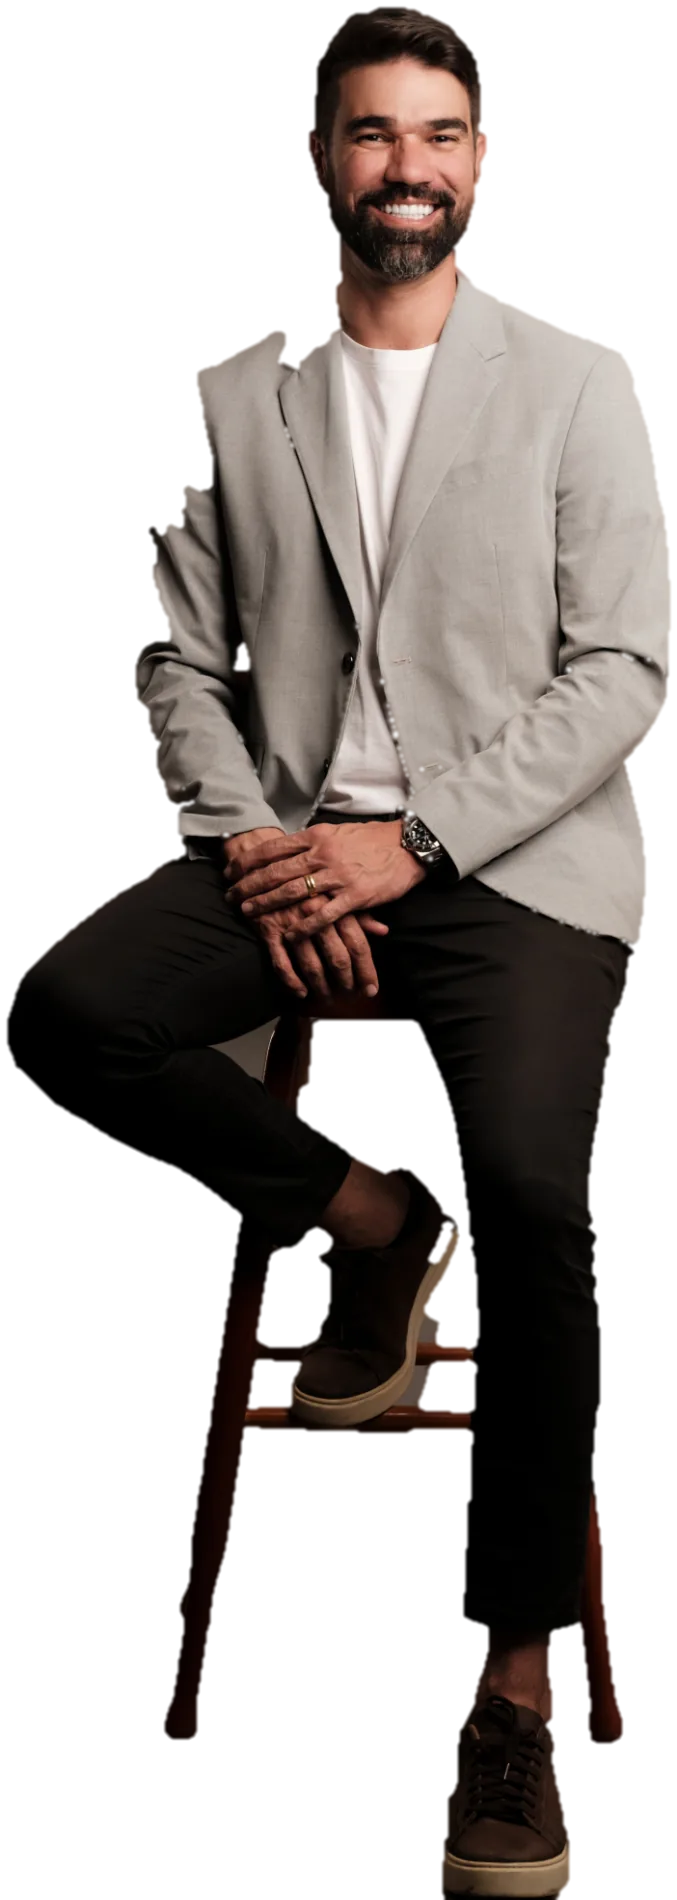
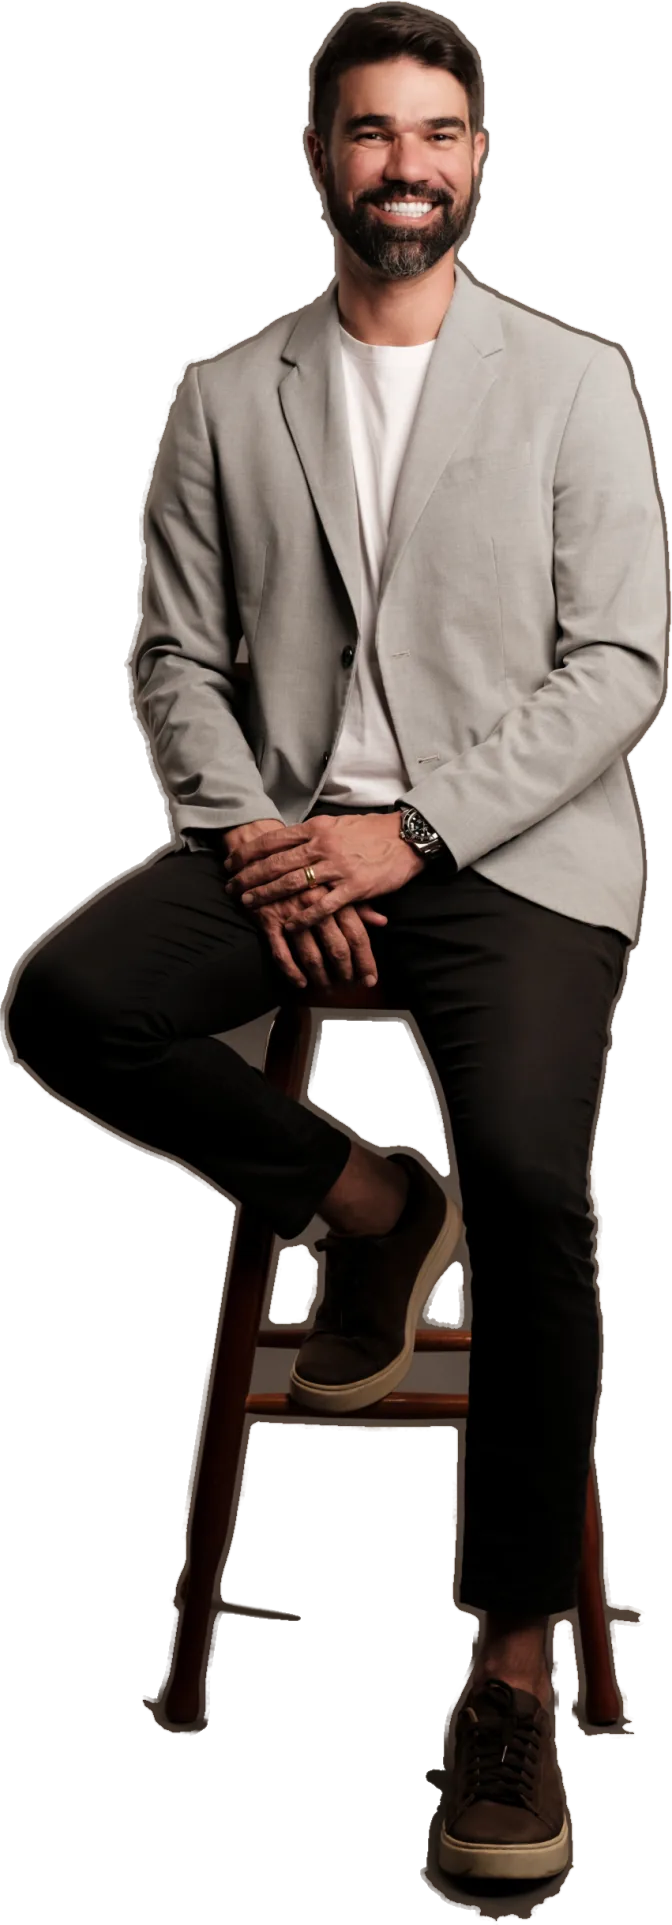
Um CTA a mais, quatro blocos de copy e o recorte da foto do banco refeito
O time leu a pagina como "direta demais": ela e a transcricao literal do
midia kit, que apresenta e nunca convence. Entraram quatro blocos que o kit
nao tem — prova social na entrada, a pergunta que a p3 responde, as ocasioes
em que a palestra costuma caber, e os tres passos ate o palco — mais dois
destaques na bio (Banco do Brasil, Paulo Vieira) e uma linha de moldura nos
18 logos. Nenhum numero ou promessa novos: tudo repete dado do kit, e pergunta
retorica, ou descreve processo.

Botoes: foram cinco, sobrou um. O pedido veio em duas partes — primeiro
"faltam botoes durante o site", depois "ficou muito botao, tem que ser lugar
estrategico". Ficou o unico vao real da pagina: da p2 ate o Everest nao havia
nada clicavel, e o fim dos cinco verbos e onde a promessa acabou de ser feita.
A pagina tem 6 pontos de conversao, com 14 links de WhatsApp em 13 mensagens
diferentes.

Foto do banco: a mascara antiga rasgava o ombro direito dele e soltava o braco
do corpo. Ela saia de diferenca de COR, e ali o blazer cinza-claro cai em cima
do foco de luz do fundo — as duas cores quase se encostam. Refeita por TEXTURA:
o fundo de estudio e liso (desvio padrao local 0,6) e a figura nao (6 a 8), e o
contorno de textura sai fechado em volta do corpo inteiro. O que sobrava de
fundo por dentro — os vaos entre as pernas e o banco, e a sombra do chao — sai
depois por cromaticidade. A funcao banco() do recortar_fotos.py foi trocada
junto, senao o recorte defeituoso volta na proxima geracao.
[…]

Changed region(s): [[0.0, 0.0, 1.0, 1.0], [0.4062, 0.8384, 0.4375, 0.8695]]

diff --git a/index.html b/index.html
@@ -576,6 +576,78 @@ body.is-locked{overflow:hidden}
   .qr figcaption{max-width:12rem;font-size:.92rem;font-weight:400;line-height:1.35}
 }
 
+
+/* ============================================================
+   GATILHOS DE COPY — blocos que NAO vem do midia kit
+   Acrescentados em 22/09/2026: o time leu a pagina como "direta demais".
+   Regra: nenhum numero ou promessa nova. Tudo aqui ou repete dado do kit,
+   ou e pergunta retorica, ou descreve processo. Cor, fonte e forma saem
+   todas do :root e da luz da secao vizinha.
+   ============================================================ */
+
+/* --- prova social na entrada: os tres numeros da p2, antes da rolagem --- */
+.prova{
+  position:relative;
+  padding:clamp(2.2rem,4.5vw,3.4rem) 0;
+  /* emenda o preto-oliva da capa no grafite da p2 */
+  background:linear-gradient(180deg,#101104 0%,#1D1C19 100%);
+  border-top:1px solid rgba(235,203,108,.16);
+}
+.prova__grid{display:grid;grid-template-columns:repeat(3,1fr);gap:clamp(.7rem,2.4vw,2.4rem);text-align:center}
+.prova__n{display:block;font-weight:800;line-height:1;font-size:clamp(1.55rem,5.2vw,3.3rem);letter-spacing:-.02em;color:var(--gold)}
+.prova__l{display:block;margin-top:.5em;font-weight:500;line-height:1.25;font-size:clamp(.78rem,1.45vw,1.05rem);text-transform:uppercase;letter-spacing:.05em}
+.prova__pe{
+  margin-top:clamp(1.4rem,2.6vw,2.1rem);
+  display:flex;flex-wrap:wrap;justify-content:center;align-items:center;gap:0 1rem;
+  text-align:center;font-size:clamp(.96rem,1.55vw,1.12rem);line-height:1.45;
+}
+
+/* --- a pergunta que a secao seguinte responde --- */
+.dor{padding:var(--band) 0;background:linear-gradient(180deg,#1F1E1C 0%,#0E0A07 62%,var(--palco) 100%)}
+.dor__ttl{max-width:38rem;font-weight:300;font-size:clamp(1.5rem,3.3vw,2.55rem);line-height:1.22}
+.dor__ttl b{display:block;margin-top:.15em;font-weight:800;color:var(--gold)}
+.dor__lista{margin-top:clamp(1.8rem,3.4vw,2.8rem);display:grid;gap:clamp(.9rem,1.8vw,1.35rem);max-width:47rem}
+.dor__lista li{position:relative;padding-left:2em;font-size:clamp(1.02rem,1.75vw,1.3rem);line-height:1.4}
+.dor__lista li::before{content:"";position:absolute;left:0;top:.62em;width:1.2em;height:2px;background:var(--gold)}
+.dor__pe{margin-top:clamp(1.6rem,3vw,2.4rem);font-weight:700;color:var(--gold);font-size:clamp(1.05rem,1.9vw,1.4rem);line-height:1.3}
+
+/* --- ocasioes: a propria lista da capa do kit, virada em reconhecimento --- */
+.ocas{margin-top:clamp(2.2rem,4vw,3.2rem);padding-right:var(--gut)}
+.ocas__ttl{font-weight:800;text-transform:uppercase;letter-spacing:.06em;color:var(--gold);font-size:clamp(.92rem,1.5vw,1.08rem)}
+.ocas__ul{margin-top:.9rem;display:flex;flex-wrap:wrap;gap:.55rem}
+.ocas__ul li{
+  padding:.55em 1.05em;border:1px solid rgba(235,203,108,.5);border-radius:100px;
+  font-size:clamp(.86rem,1.4vw,1.02rem);line-height:1.2;
+}
+
+/* --- moldura dos 18 logos: o que eles provam --- */
+.clientes__sub{margin:.8rem auto 0;max-width:46rem;text-align:center;font-size:clamp(1rem,1.65vw,1.2rem);line-height:1.45}
+
+/* --- os tres passos ate o palco: tira o atrito do CTA final --- */
+.passos{padding:var(--band) 0;background:linear-gradient(180deg,#2B2721 0%,#14201F 62%,var(--petroleo) 100%)}
+.passos__ttl{text-align:center;font-weight:300;font-size:clamp(1.65rem,4vw,2.9rem);line-height:1.18}
+.passos__ttl b{font-weight:800;color:var(--gold)}
+.passos__grid{margin-top:clamp(2rem,4vw,3.2rem);list-style:none;display:grid;gap:clamp(1rem,2.2vw,1.8rem)}
+.passos__grid li{
+  padding:clamp(1.3rem,2.4vw,1.9rem) clamp(1.4rem,2.6vw,2.1rem);
+  border:1px solid rgba(235,203,108,.28);border-radius:clamp(18px,2.4vw,26px);background:rgba(0,0,0,.24);
+}
+.passos__n{display:block;font-family:var(--cond);font-weight:400;line-height:1;color:var(--gold);font-size:clamp(1.8rem,3.2vw,2.5rem)}
+.passos__t{display:block;margin-top:.45em;font-weight:800;text-transform:uppercase;letter-spacing:.04em;font-size:clamp(1rem,1.6vw,1.16rem)}
+.passos__d{margin-top:.55em;font-size:clamp(.97rem,1.55vw,1.1rem);line-height:1.45}
+@media (min-width:760px){ .passos__grid{grid-template-columns:repeat(3,1fr)} }
+
+/* --- microcopy que tira o medo de chamar --- */
+.leve__nota{margin-top:1.2rem;max-width:31rem;font-size:clamp(.95rem,1.5vw,1.08rem);line-height:1.45;color:rgba(255,255,255,.88)}
+
+
+/* --- um CTA a mais, no fim da p3 ---
+   22/09/2026: cinco botoes novos viraram um so. O pedido veio em duas partes — primeiro
+   "faltam botoes durante o site", depois "ficou muito botao, tem que ser lugar estrategico".
+   Ficou o unico vao real que a pagina tinha: da p2 ate o Everest nao havia nada clicavel,
+   e o fim dos cinco verbos e onde a promessa da palestra acabou de ser feita. */
+.cta-sec{margin-top:clamp(2.2rem,4vw,3.2rem)}
+
 /* ============================================================
    RODAPÉ + WHATSAPP FLUTUANTE
    ============================================================ */
@@ -683,6 +755,21 @@ body.is-locked{overflow:hidden}
   </div>
 </section>
 
+<!-- ============ GATILHO · PROVA SOCIAL NA ENTRADA (não vem do kit) ============ -->
+<section class="prova" aria-label="Experiência em números">
+  <div class="wrap">
+    <ul class="prova__grid reveal">
+      <li><strong class="prova__n">+3.000</strong><span class="prova__l">palestras</span></li>
+      <li><strong class="prova__n">+400 mil</strong><span class="prova__l">pessoas treinadas</span></li>
+      <li><strong class="prova__n">+3.600h</strong><span class="prova__l">de mentoria individual</span></li>
+    </ul>
+    <p class="prova__pe reveal" style="--d:.1s">
+      <span>Entre as empresas atendidas: indústria, agronegócio, varejo, serviços e comunicação.</span>
+      <a class="lnk" href="#resultados">Ver quais <svg viewBox="0 0 24 24" aria-hidden="true"><path d="M12 5v14M6 13l6 6 6-6" stroke-linecap="round" stroke-linejoin="round"/></svg></a>
+    </p>
+  </div>
+</section>
+
 <!-- ============ 2 · QUEM É (pág. 2) ============ -->
 <section class="quem" id="quem-e" aria-labelledby="quem-h">
   <div class="quem__foto">
@@ -695,8 +782,8 @@ body.is-locked{overflow:hidden}
     <p class="quem__abre reveal">Sou <strong>empresário, palestrante</strong> e <strong>estrategista.</strong></p>
 
     <div class="quem__bio just reveal">
-      <p>Gustavo Sampaio construiu sua base de liderança e alta performance ao longo de seis anos no Banco do Brasil, após ser aprovado em concurso público.</p>
-      <p>Em 2018, expandiu sua atuação nos negócios ao se tornar sócio de Paulo Vieira na franquia Febracis Goiânia, onde atuou como diretor até 2026.</p>
+      <p>Gustavo Sampaio construiu sua base de liderança e alta performance ao longo de <strong>seis anos no Banco do Brasil</strong>, após ser aprovado em concurso público.</p>
+      <p>Em 2018, expandiu sua atuação nos negócios ao se tornar <strong>sócio de Paulo Vieira na franquia Febracis Goiânia</strong>, onde atuou como diretor até 2026.</p>
       <p>Atualmente lidera pessoas, projetos e processos voltados ao desenvolvimento pessoal e corporativo.</p>
       <p>Essa busca por superação também se reflete em sua paixão por desafios extremos de alta performance e inteligência emocional, como travessias no Deserto do Saara e Atacama, nos Lençóis Maranhenses e a subida ao acampamento base do Everest.</p>
       <p>Sua trajetória prática moldou uma convicção central: nenhuma empresa cresce de forma consistente sem desenvolver as pessoas que sustentam seus resultados.</p>
@@ -709,6 +796,20 @@ body.is-locked{overflow:hidden}
       <li><strong>+ 400 mil</strong> pessoas treinadas</li>
       <li><strong>+ 3.600</strong> horas de mentoria individual</li>
     </ul>
+
+  </div>
+</section>
+
+<!-- ============ GATILHO · A PERGUNTA QUE A PÁGINA 3 RESPONDE (não vem do kit) ============ -->
+<section class="dor" aria-label="O que costuma sobrar depois do evento">
+  <div class="wrap">
+    <h2 class="dor__ttl reveal">Toda convenção termina com a plateia de pé. <b>A pergunta é o que sobra na segunda-feira.</b></h2>
+    <ul class="dor__lista">
+      <li class="reveal">O time sabe o que precisa ser feito — e mesmo assim não faz.</li>
+      <li class="reveal" style="--d:.06s">A liderança decide no improviso e passa o ano apagando incêndio.</li>
+      <li class="reveal" style="--d:.12s">A mensagem do evento empolga na hora e some na primeira semana de rotina.</li>
+    </ul>
+    <p class="dor__pe reveal" style="--d:.18s">É exatamente nesse ponto que a palestra tem de agir.</p>
   </div>
 </section>
 
@@ -737,6 +838,8 @@ body.is-locked{overflow:hidden}
       <li class="reveal" style="--d:.18s"><strong><span class="gold">Fortalecer</span></strong><span>a comunicação e o trabalho em equipe.</span></li>
       <li class="reveal" style="--d:.24s"><strong><span class="gold">Transformar</span></strong><span>desafios em oportunidades de crescimento.</span></li>
     </ul>
+
+    <a class="btn btn--gold cta-sec reveal" href="https://wa.me/5562981084247?text=Ol%C3%A1%21%20Vim%20pela%20p%C3%A1gina%20de%20palestras.%20Quero%20essa%20experi%C3%AAncia%20para%20a%20minha%20equipe%20e%20gostaria%20de%20solicitar%20uma%20proposta." target="_blank" rel="noopener">Quero essa experiência no meu evento</a>
   </div>
 </section>
 
@@ -812,6 +915,19 @@ body.is-locked{overflow:hidden}
         <li class="reveal" style="--d:.12s">Treinamentos de 4h, 8h ou 16h</li>
         <li class="reveal" style="--d:.18s">Programas para empresas</li>
       </ul>
+
+      <!-- GATILHO · reconhecimento: a lista é a da capa do kit, virada em ocasião -->
+      <div class="ocas reveal">
+        <h4 class="ocas__ttl">Costuma funcionar bem em:</h4>
+        <ul class="ocas__ul">
+          <li>Convenções de vendas</li>
+          <li>Encontros de liderança</li>
+          <li>Eventos empresariais</li>
+          <li>Treinamentos de equipes</li>
+          <li>Encontros com clientes e parceiros</li>
+        </ul>
+      </div>
+
     </div>
   </div>
 </section>
@@ -865,7 +981,7 @@ body.is-locked{overflow:hidden}
     <div class="res__topo">
       <h2 class="res__ttl" id="res-h"><span class="res__big"><span class="sunset">Resultados</span></span><span class="res__sub">para a sua organização</span></h2>
 
-      <img class="res__foto" src="images/kit/banco.webp" width="677" height="1900" alt="Gustavo Sampaio sentado em um banco alto, de blazer cinza claro e camiseta branca, sorrindo" loading="lazy" decoding="async">
+      <img class="res__foto" src="images/kit/banco.webp" width="672" height="1925" alt="Gustavo Sampaio sentado em um banco alto, de blazer cinza claro e camiseta branca, sorrindo" loading="lazy" decoding="async">
 
       <div class="res__lista">
         <ul class="ganhos reveal">
@@ -889,6 +1005,8 @@ body.is-locked{overflow:hidden}
 
     <div class="clientes">
       <h3 class="clientes__ttl reveal">Algumas empresas atendidas</h3>
+      <!-- GATILHO · o que os 18 logos provam -->
+      <p class="clientes__sub reveal">Em todas, o mesmo ponto de partida: tema, recorte e formato ajustados ao público e ao objetivo daquele evento.</p>
       <div class="logos reveal">
         <ul>
           <li><img src="images/logos-kit/01-gav-resorts.png" width="194" height="140" alt="GAV Resorts" style="--w:47%" loading="lazy" decoding="async"></li>
@@ -915,6 +1033,30 @@ body.is-locked{overflow:hidden}
   </div>
 </section>
 
+<!-- ============ GATILHO · COMO SAI DO CONTATO PARA O PALCO (não vem do kit) ============ -->
+<section class="passos" aria-label="Como contratar">
+  <div class="wrap">
+    <h2 class="passos__ttl reveal">Do primeiro contato ao palco, <b>em três conversas.</b></h2>
+    <ol class="passos__grid">
+      <li class="reveal">
+        <span class="passos__n">01</span>
+        <span class="passos__t">Contato</span>
+        <p class="passos__d">Você chama no WhatsApp e conta o contexto: público, data, cidade e objetivo do evento.</p>
+      </li>
+      <li class="reveal" style="--d:.08s">
+        <span class="passos__n">02</span>
+        <span class="passos__t">Alinhamento</span>
+        <p class="passos__d">Definimos juntos o tema, o formato — presencial ou online — e a duração que faz sentido para esse público.</p>
+      </li>
+      <li class="reveal" style="--d:.16s">
+        <span class="passos__n">03</span>
+        <span class="passos__t">Confirmação</span>
+        <p class="passos__d">Fechados os detalhes, você recebe as orientações técnicas do que precisa estar pronto no local.</p>
+      </li>
+    </ol>
+  </div>
+</section>
+
 <!-- ============ 8 · LEVE GUSTAVO SAMPAIO PARA A SUA EMPRESA (pág. 8) ============ -->
 <section class="leve" id="contato" aria-labelledby="leve-h">
   <div class="leve__fig">
@@ -928,6 +1070,9 @@ body.is-locked{overflow:hidden}
       <p>Palestras para convenções de vendas, encontros de liderança, eventos empresariais, treinamentos de equipes e encontros com clientes e parceiros.</p>
       <p>Cada experiência é personalizada de acordo com o público, o segmento e os objetivos da organização.</p>
     </div>
+
+    <!-- GATILHO · tira o atrito de chamar -->
+    <p class="leve__nota reveal">Não precisa ter tudo definido: conte o contexto do evento e a proposta é montada a partir dele.</p>
 
     <h3 class="leve__rot reveal">Solicite uma proposta</h3>
     <ul class="contatos reveal">
